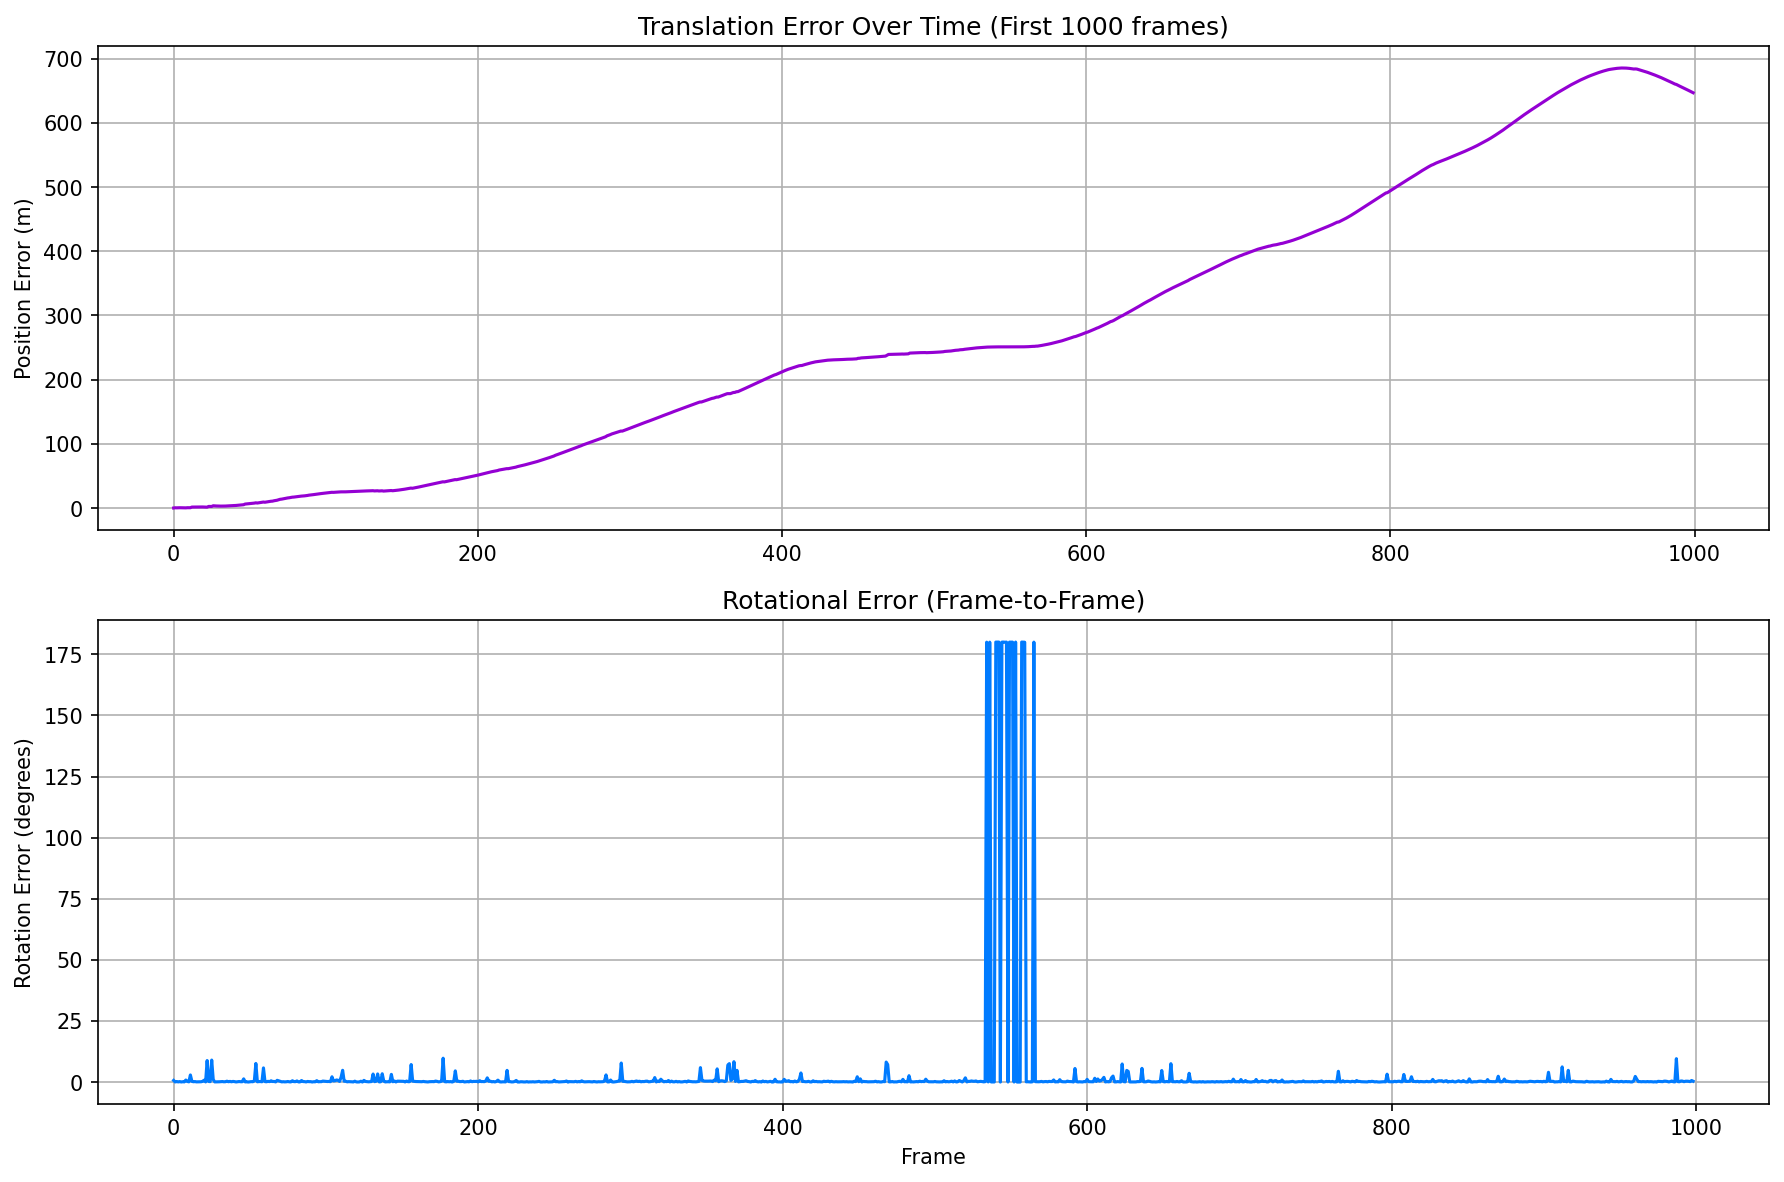
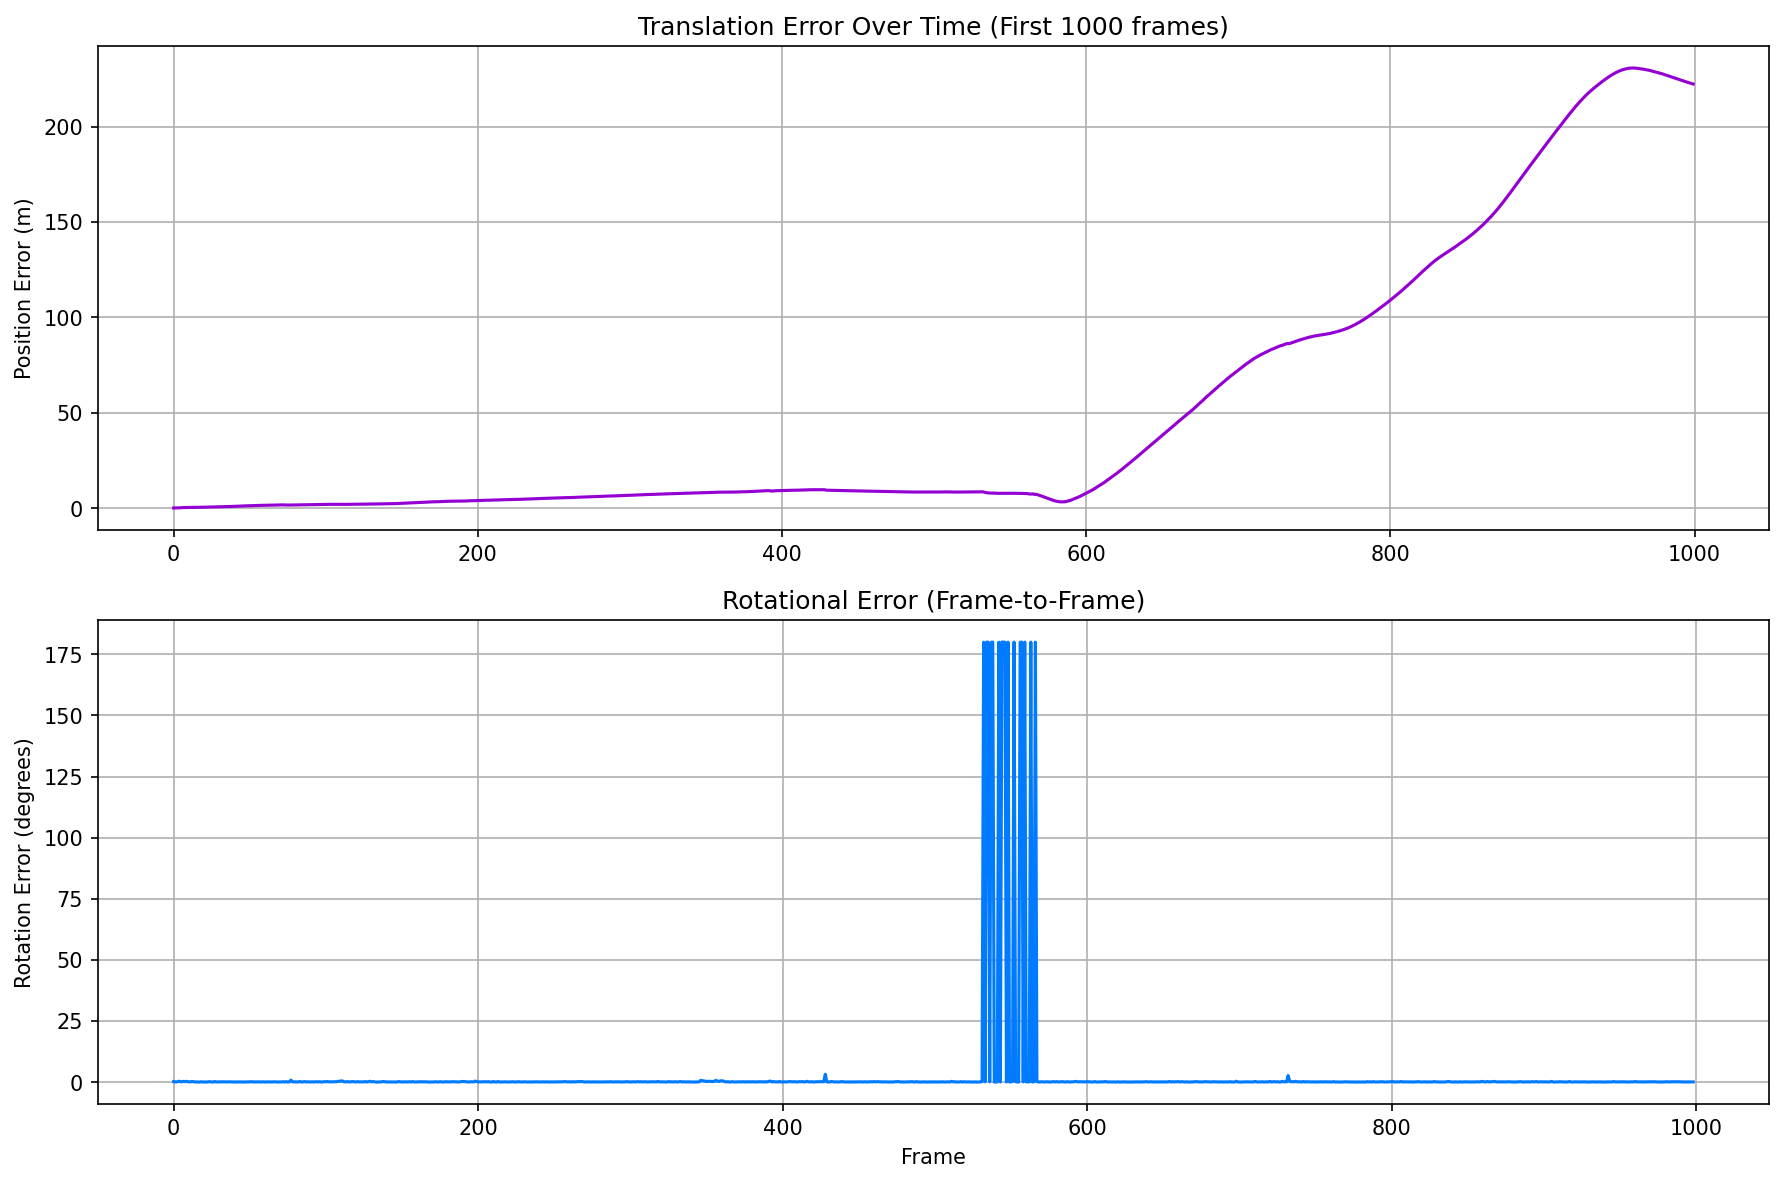
Improve monocular VO baseline with SIFT and ensure consistency
Major improvements:
- Switch from ORB to SIFT features for 4x better monocular VO accuracy
  * Monocular VO: 89m RMS (was 348m with ORB)
  * Stereo VO: 22.5m RMS (75% improvement over monocular)
- Synchronize animated GIFs (both 300 frames, 80ms timing)
- Use SIFT consistently across all visualizations and VO pipelines
- Update Chapter 1 to use 100-frame 3D trajectory (clearer altitude drift example)
- Regenerate all visualizations with correct transformation math
- Update statistics and documentation to reflect accurate results

The monocular VO now provides a solid baseline that clearly demonstrates
the value of stereo vision while being realistic and properly implemented.

diff --git a/chapters/1/generate_visualizations.py b/chapters/1/generate_visualizations.py
@@ -99,7 +99,7 @@ if poses_cache_file.exists():
     print('   ✅ Loaded poses from cache.')
 else:
     print(f'   Processing all {n_frames} frames (this will take a while)...')
-    vo = SimpleVisualOdometry(K, detector_type='ORB', max_features=2000)
+    vo = SimpleVisualOdometry(K, detector_type='SIFT', max_features=2000)
     estimated_poses = vo.process_image_sequence(
         image_paths,
         ground_truth_poses=gt_poses
@@ -296,7 +296,7 @@ def generate_feature_annotated_gif(paths: list, output_path: Path, step: int = 5
 
 features_gif_path = output_dir / 'sequence_00_features.gif'
 generate_feature_annotated_gif(image_paths, features_gif_path, step=5, max_frames=300, resize_width=800,
-                               detector_type='ORB', max_features=1000, draw_limit=300, duration_ms=80)
+                               detector_type='SIFT', max_features=2000, draw_limit=300, duration_ms=80)
 
 # 9. NEW: Simple Analogy (Parallax) Visualization
 print('9. Creating simple analogy illustration (parallax)...')

diff --git a/chapters/2/generate_visualizations.py b/chapters/2/generate_visualizations.py
@@ -152,6 +152,7 @@ def main():
             K_left,
             left_image_paths[:N_FRAMES],
             gt_poses[:N_FRAMES],
+            detector_type='SIFT',
             max_features=2000
         )
         np.save(mono_poses_cache, mono_poses)

diff --git a/chapters/2/index.md b/chapters/2/index.md
@@ -88,10 +88,10 @@ The numbers confirm what our eyes see. The stereo system is not just a little be
 
 | Metric (1000 frames) | Monocular VO | Stereo VO | Improvement |
 | :--- | :--- | :--- | :--- |
-| **RMS Position Error** | 348.82 m | **22.54 m** | **93.54%** |
-| **Mean Position Error**| 277.07 m | **16.83 m** | **93.93%** |
+| **RMS Position Error** | 89.26 m | **22.54 m** | **74.75%** |
+| **Mean Position Error**| 52.43 m | **16.83 m** | **67.90%** |
 
-After driving for roughly 600 meters, the monocular system thought it was over 348 meters off course. The stereo system was off by only 22 meters. This is the power of seeing in 3D.
+After driving for roughly 600 meters, the monocular system was off by about 89 meters. The stereo system was off by only 22 meters - a dramatic improvement that comes from being able to perceive depth.
 
 ## Conclusion: The Value of a Second Viewpoint
 

diff --git a/README.md b/README.md
@@ -27,7 +27,7 @@ Solve the scale ambiguity problem from Chapter 1 using a second camera to percei
 - **Dataset**: KITTI Visual Odometry (Stereo Pairs)
 - **Key Skills**: Stereo correspondence, disparity, 3D triangulation, scaled trajectory
 - **Difficulty**: Intermediate
-- **Results**: 93.5% improvement in accuracy over monocular vision
+- **Results**: 75% improvement in accuracy over monocular vision
 
 ### [Chapter 3: SLAM Fundamentals](chapters/3/) *(Coming Soon)*
 Build a basic Simultaneous Localization and Mapping system.
